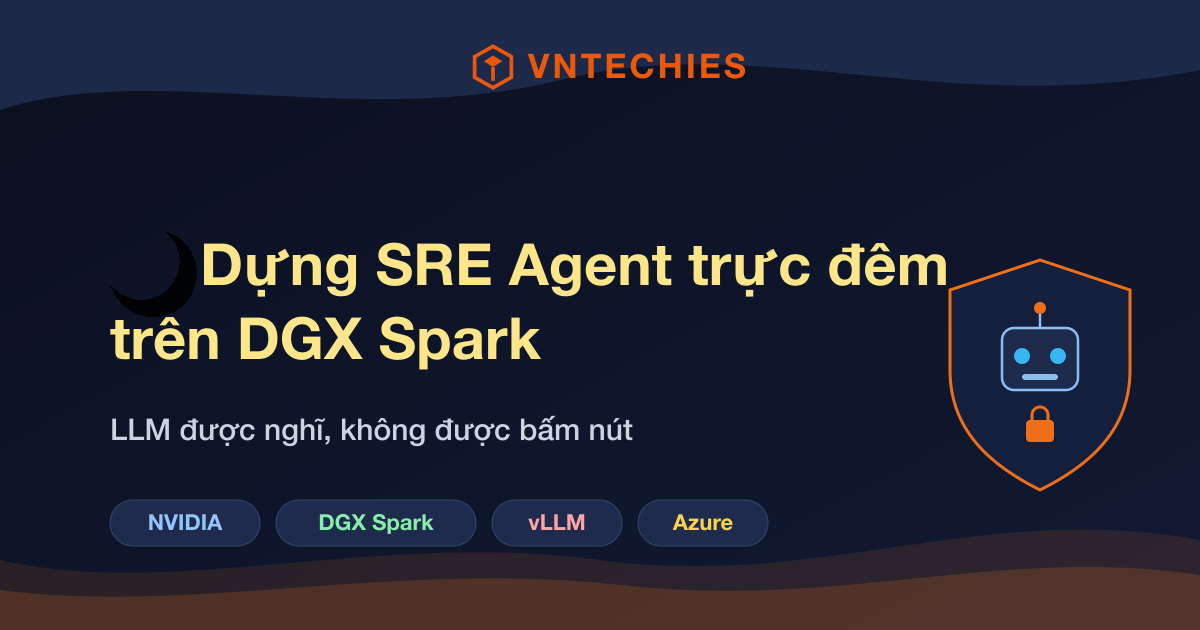
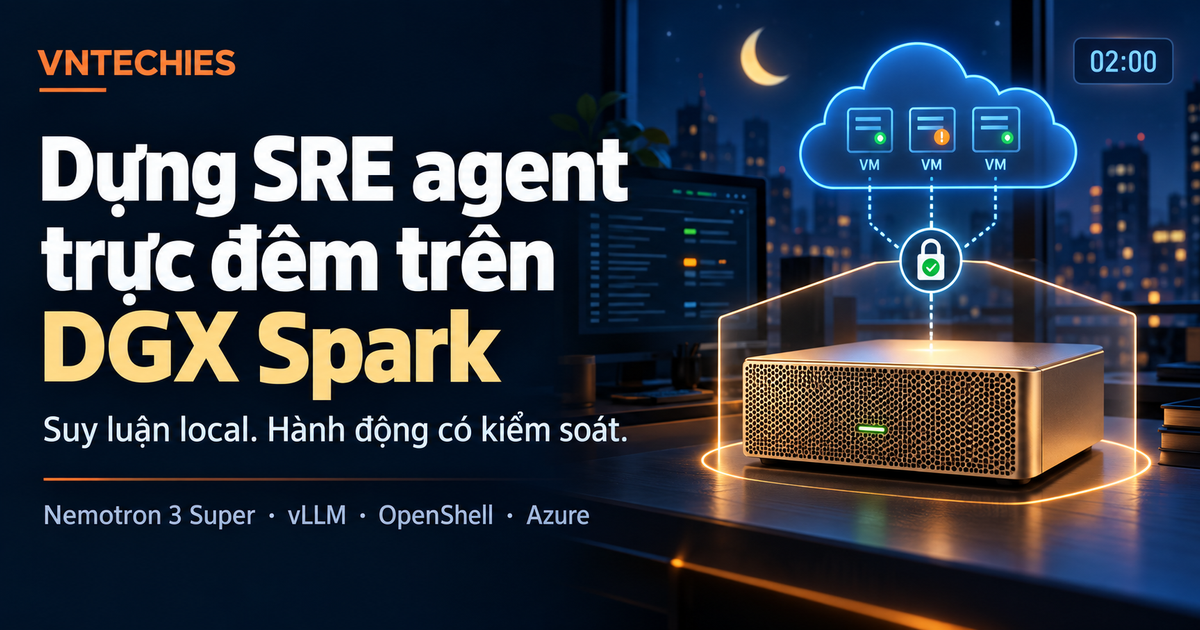
added new post

diff --git a/layouts/PostLayout.js b/layouts/PostLayout.js
@@ -10,10 +10,11 @@ import ScrollTopAndComment from '@/components/ScrollTopAndComment'
 import Share from '@/components/Share'
 import HorizontalCard from '@/components/HorizontalCard'
 import SummaryButton from '@/components/SummaryButton'
+import TocSidebar from '@/components/TocSidebar'
 
 const postDateTemplate = { weekday: 'long', year: 'numeric', month: 'long', day: 'numeric' }
 
-export default function PostLayout({ frontMatter, authorDetails, next, prev, children }) {
+export default function PostLayout({ frontMatter, authorDetails, toc, next, prev, children }) {
   const { slug, date, title, tags } = frontMatter
 
   return (
@@ -43,67 +44,54 @@ export default function PostLayout({ frontMatter, authorDetails, next, prev, chi
 
         {/* Stacked below xl: sidebar and text share one centred ~72ch column */}
         <div className="mx-auto mt-10 grid max-w-3xl gap-8 xl:max-w-none xl:grid-cols-[230px,1fr]">
-          <aside className="space-y-5 xl:sticky xl:top-24 xl:self-start">
+          <aside className="space-y-5">
             <div className="surface-panel-muted p-4 sm:p-5">
               <h2 className="panel-label mb-4">Tác giả</h2>
               <ul className="space-y-4">
                 {authorDetails &&
-                  authorDetails.map((author) => (
-                    <li className="flex items-center space-x-3" key={author.name}>
-                      {author.slug ? (
-                        <Link
-                          href={`/authors/${author.slug}`}
-                          className="flex min-w-0 items-center space-x-3 rounded-lg"
-                        >
-                          {author.avatar && (
-                            <Image
-                              src={author.avatar}
-                              width={44}
-                              height={44}
-                              alt={author.name}
-                              className="h-11 w-11 rounded-full object-cover"
-                              quality={75}
-                              loading="lazy"
-                            />
-                          )}
-                          <dl className="min-w-0 text-sm font-medium">
-                            <dd className="truncate text-fg hover:text-brand-strong">
-                              {author.name}
-                            </dd>
-                          </dl>
-                        </Link>
-                      ) : (
-                        <>
-                          {author.avatar && (
-                            <Image
-                              src={author.avatar}
-                              width={44}
-                              height={44}
-                              alt={author.name}
-                              className="h-11 w-11 rounded-full object-cover"
-                              quality={75}
-                              loading="lazy"
-                            />
-                          )}
-                          <dl className="min-w-0 text-sm font-medium">
-                            <dd className="truncate text-fg">{author.name}</dd>
-                          </dl>
-                        </>
-                      )}
-                      <dl className="min-w-0 text-sm font-medium">
-                        <dd>
+                  authorDetails.map((author) => {
+                    const avatar = author.avatar && (
+                      <Image
+                        src={author.avatar}
+                        width={44}
+                        height={44}
+                        alt={author.name}
+                        className="h-11 w-11 shrink-0 rounded-full object-cover"
+                        quality={75}
+                        loading="lazy"
+                      />
+                    )
+                    // Scale the name down as it gets longer so it fits the sidebar.
+                    const len = author.name?.length || 0
+                    const nameSize = len <= 14 ? 'text-base' : len <= 22 ? 'text-sm' : 'text-xs'
+                    const nameClass = `break-words font-semibold leading-tight ${nameSize}`
+                    const name = author.slug ? (
+                      <Link
+                        href={`/authors/${author.slug}`}
+                        className={`${nameClass} text-fg hover:text-brand-strong`}
+                      >
+                        {author.name}
+                      </Link>
+                    ) : (
+                      <span className={`${nameClass} text-fg`}>{author.name}</span>
+                    )
+                    return (
+                      <li className="flex items-center space-x-3" key={author.name}>
+                        {avatar}
+                        <div className="flex min-w-0 flex-col">
+                          {name}
                           {author.facebook && (
                             <Link
                               href={author.facebook}
-                              className="text-brand-strong hover:text-brand-soft"
+                              className="truncate text-xs text-brand-strong hover:text-brand-soft"
                             >
                               {author.facebook.replace('https://fb.me/', '@')}
                             </Link>
                           )}
-                        </dd>
-                      </dl>
-                    </li>
-                  ))}
+                        </div>
+                      </li>
+                    )
+                  })}
               </ul>
             </div>
 
@@ -116,6 +104,18 @@ export default function PostLayout({ frontMatter, authorDetails, next, prev, chi
                   ))}
                 </div>
               </div>
+            )}
+
+            {frontMatter.hasInlineToc && toc && toc.length > 0 && (
+              <nav
+                aria-label="Mục lục"
+                className="surface-panel-muted hidden p-4 text-sm sm:p-5 xl:sticky xl:top-24 xl:block xl:max-h-[calc(100vh-8rem)] xl:self-start xl:overflow-y-auto"
+              >
+                <h2 className="panel-label mb-4">Mục lục</h2>
+                <div className="toc-sidebar">
+                  <TocSidebar toc={toc} />
+                </div>
+              </nav>
             )}
           </aside>
 

diff --git a/components/TocSidebar.js b/components/TocSidebar.js
@@ -1,0 +1,88 @@
+import { useEffect, useRef, useState } from 'react'
+
+/**
+ * @typedef TocHeading
+ * @prop {string} value
+ * @prop {number} depth
+ * @prop {string} url   // e.g. "#my-heading"
+ */
+
+/**
+ * Sidebar table of contents with scrollspy: the heading matching the section
+ * currently in view is highlighted and the TOC "moves along" with the post,
+ * header by header.
+ *
+ * @param {{ toc: TocHeading[], indentDepth?: number, fromHeading?: number, toHeading?: number }} props
+ */
+const TocSidebar = ({ toc, indentDepth = 3, fromHeading = 1, toHeading = 6 }) => {
+  const filteredToc = toc.filter(
+    (heading) => heading.depth >= fromHeading && heading.depth <= toHeading
+  )
+
+  const [activeId, setActiveId] = useState('')
+  // Track visibility of every observed heading so the "active" one is the
+  // topmost heading currently in view (section-by-section as you scroll).
+  const visibility = useRef(new Map())
+  const activeLinkRef = useRef(null)
+
+  useEffect(() => {
+    const ids = filteredToc.map((h) => h.url.replace(/^#/, '')).filter(Boolean)
+    const elements = ids.map((id) => document.getElementById(id)).filter((el) => el !== null)
+
+    if (elements.length === 0) return
+
+    const map = visibility.current
+    const observer = new IntersectionObserver(
+      (entries) => {
+        for (const entry of entries) {
+          map.set(entry.target.id, entry.isIntersecting)
+        }
+        // Pick the first heading (in document order) that is currently visible.
+        const firstVisible = ids.find((id) => map.get(id))
+        if (firstVisible) {
+          setActiveId(firstVisible)
+        }
+      },
+      // Trigger as a heading crosses the upper portion of the viewport.
+      { rootMargin: '0px 0px -70% 0px', threshold: [0, 1] }
+    )
+
+    elements.forEach((el) => observer.observe(el))
+    return () => observer.disconnect()
+    // eslint-disable-next-line react-hooks/exhaustive-deps
+  }, [toc])
+
+  // Keep the active TOC entry scrolled into view inside the (possibly scrollable) panel.
+  useEffect(() => {
+    if (activeLinkRef.current) {
+      activeLinkRef.current.scrollIntoView({ block: 'nearest' })
+    }
+  }, [activeId])
+
+  return (
+    <ul>
+      {filteredToc.map((heading) => {
+        const id = heading.url.replace(/^#/, '')
+        const isActive = id === activeId
+        return (
+          <li key={heading.value} className={heading.depth >= indentDepth ? 'ml-6' : undefined}>
+            <a
+              ref={isActive ? activeLinkRef : undefined}
+              href={heading.url}
+              aria-current={isActive ? 'location' : undefined}
+              className={
+                isActive
+                  ? 'font-semibold text-brand-strong'
+                  : 'text-fg-muted hover:text-brand-strong'
+              }
+            >
+              {heading.value}
+            </a>
+          </li>
+        )
+      })}
+    </ul>
+  )
+}
+
+export default TocSidebar

diff --git a/lib/mdx.js b/lib/mdx.js
@@ -85,6 +85,10 @@ export async function getFileBySlug(type, slug) {
     ? fs.readFileSync(mdxPath, 'utf8')
     : fs.readFileSync(mdPath, 'utf8')
 
+  // Whether the post embeds <TOCInline ... asDisclosure /> in its body — used to
+  // decide if the sidebar "Mục lục" should be shown.
+  const hasInlineToc = /<TOCInline\b[^>]*\basDisclosure\b/.test(source)
+
   // https://github.com/kentcdodds/mdx-bundler#nextjs-esbuild-enoent
   if (process.platform === 'win32') {
     process.env.ESBUILD_BINARY_PATH = path.join(root, 'node_modules', 'esbuild', 'esbuild.exe')
@@ -156,6 +160,7 @@ export async function getFileBySlug(type, slug) {
       readingTime: readingTime(code),
       slug: slug || null,
       fileName: fs.existsSync(mdxPath) ? `${slug}.mdx` : `${slug}.md`,
+      hasInlineToc,
       ...frontmatter,
       date: frontmatter.date ? new Date(frontmatter.date).toISOString() : null,
       authors: frontmatter.authors || ['default'],

diff --git a/components/Header.js b/components/Header.js
@@ -30,6 +30,7 @@ export default function Header() {
           <span className="hidden truncate text-xs text-fg-subtle lg:inline">
             <span className="text-success">~</span>/cloud<span className="text-fg-subtle">·</span>
             devops<span className="text-fg-subtle">·</span>data
+            <span className="text-fg-subtle">·</span>ai
             <span className="term-cursor ml-1" aria-hidden="true" />
           </span>
         </Link>

diff --git a/components/TOCInline.js b/components/TOCInline.js
@@ -50,7 +50,8 @@ const TOCInline = ({
   return (
     <>
       {asDisclosure ? (
-        <details open>
+        // At xl+ the sidebar shows the TOC, so hide this in-post collapsible one.
+        <details open className="xl:hidden">
           <summary className="ml-6 pt-2 pb-2 text-xl font-bold">Mục lục</summary>
           <div className="ml-6">{tocList}</div>
         </details>
